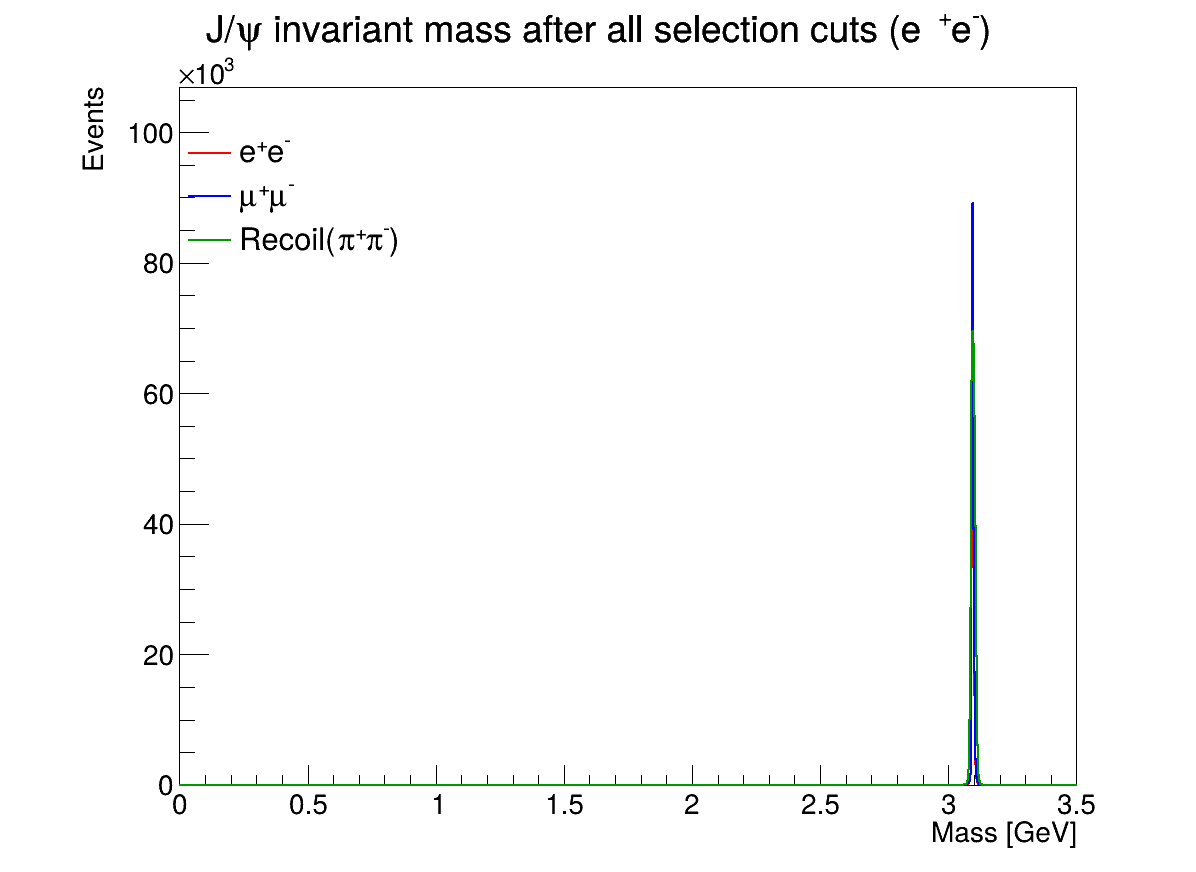
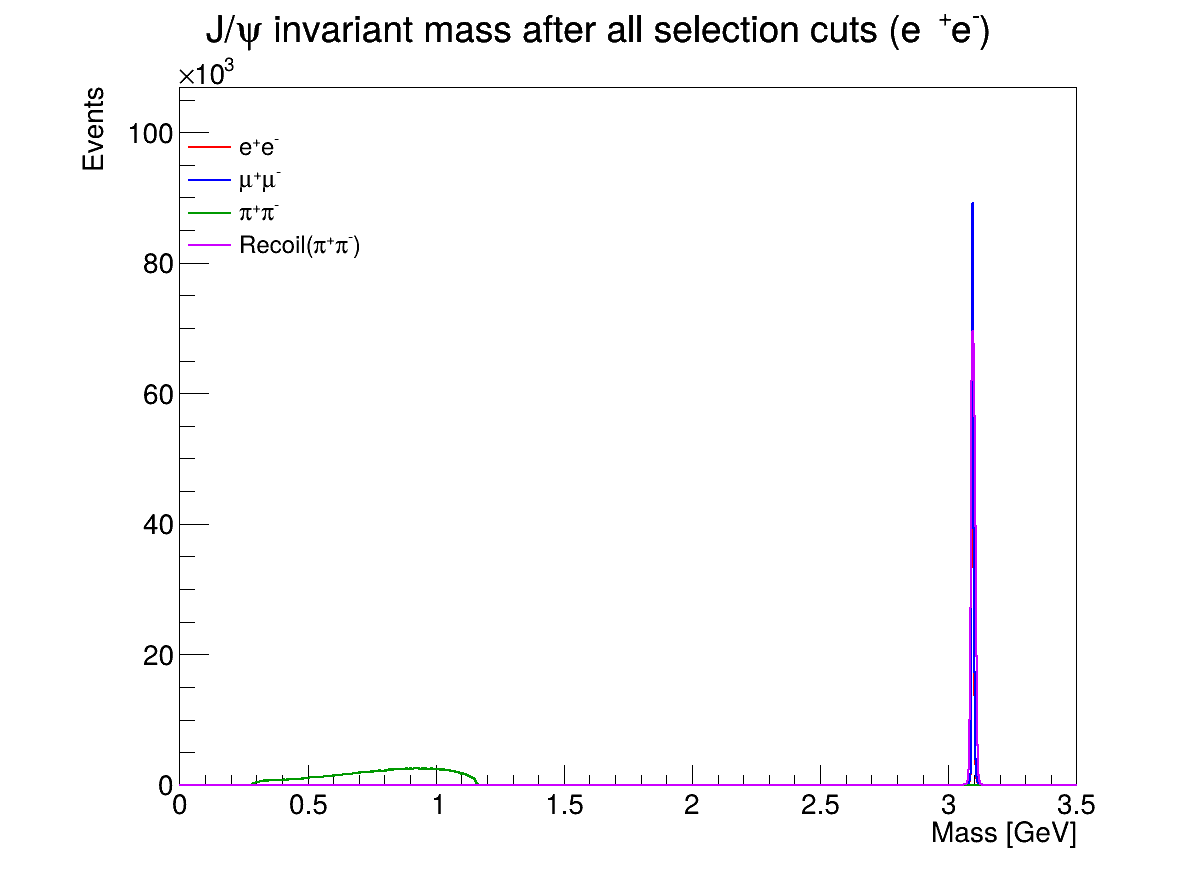
added pions to the "Jpsi_mass_after_all_cuts" graph

Changed region(s): [[0.1547, 0.1548, 0.3403, 0.3096], [0.8043, 0.4025, 0.8353, 0.8979]]

diff --git a/part2_KinFit/ZcAnalysis.C b/part2_KinFit/ZcAnalysis.C
@@ -267,6 +267,13 @@ TH1D* h_mJpsi_recoil_afterChi2 = new TH1D(
 "J/#psi invariant mass after all selection cuts (recoil);Mass [GeV];Events",
 1000,0.0,3.5
 );
+
+TH1D* h_m_pipi_afterChi2 = new TH1D(
+"h_m_pipi_afterChi2",
+"#pi^{+}#pi^{-} invariant mass after all selection cuts;Mass [GeV];Events",
+1000,0.0,3.5
+);
+
 // problem 6.3
 // --- J/psi pi mass ---
 TH1D* h_mJpsipi = new TH1D(
@@ -595,6 +602,9 @@ if(muonEvent)
 P4E recoil_chi2 = pCMS - pions;
 
 h_mJpsi_recoil_afterChi2->Fill(recoil_chi2.M());
+
+h_m_pipi_afterChi2->Fill(pions.M());
+
 selectedEvents++;   
 
 
@@ -1348,32 +1358,37 @@ canvas_chi2->SetLeftMargin(0.15);
 TH1D* h_e_plot = (TH1D*)h_mJpsi_e_afterChi2->Clone("h_e_plot");
 TH1D* h_mu_plot = (TH1D*)h_mJpsi_mu_afterChi2->Clone("h_mu_plot");
 TH1D* h_recoil_plot = (TH1D*)h_mJpsi_recoil_afterChi2->Clone("h_recoil_plot");
+TH1D* h_pipi_plot = (TH1D*)h_m_pipi_afterChi2->Clone("h_pipi_plot"); // Cloned pions
 
 
 // ===== STYLE (APPLY TO CLONES) =====
-h_e_plot->SetLineColor(kRed);
-h_mu_plot->SetLineColor(kBlue);
-h_recoil_plot->SetLineColor(kGreen+2);
+h_e_plot->SetLineColor(kRed);          // Electrons -> Red
+h_mu_plot->SetLineColor(kBlue);        // Muons -> Blue
+h_pipi_plot->SetLineColor(kGreen+2);   // Pions -> Green
+h_recoil_plot->SetLineColor(kViolet);  // Recoil -> Purple/Violet
 
 h_e_plot->SetLineWidth(2);
 h_mu_plot->SetLineWidth(2);
+h_pipi_plot->SetLineWidth(2);
 h_recoil_plot->SetLineWidth(2);
 
 // ===== AXIS =====
 h_e_plot->GetYaxis()->SetTitle("Events");
-//h_e_plot->GetXaxis()->SetRangeUser(2.9, 3.2);
 
 // ===== SET MAX USING CLONES =====
 double max_e = h_e_plot->GetMaximum();
 double max_mu = h_mu_plot->GetMaximum();
 double max_recoil = h_recoil_plot->GetMaximum();
+double max_pipi = h_pipi_plot->GetMaximum();
 
-double max_all = std::max({max_e, max_mu, max_recoil});
+// Evaluate maximum of all 4 quantities
+double max_all = std::max({max_e, max_mu, max_recoil, max_pipi});
 h_e_plot->SetMaximum(1.2 * max_all);
 
 // ===== DRAW =====
 h_e_plot->Draw("HIST");
 h_mu_plot->Draw("HIST SAME");
+h_pipi_plot->Draw("HIST SAME");
 h_recoil_plot->Draw("HIST SAME");
 
 // ===== LEGEND =====
@@ -1383,6 +1398,7 @@ leg_chi2->SetFillStyle(0);
 
 leg_chi2->AddEntry(h_e_plot,"e^{+}e^{-}","l");
 leg_chi2->AddEntry(h_mu_plot,"#mu^{+}#mu^{-}","l");
+leg_chi2->AddEntry(h_pipi_plot,"#pi^{+}#pi^{-}","l");
 leg_chi2->AddEntry(h_recoil_plot,"Recoil(#pi^{+}#pi^{-})","l");
 
 leg_chi2->Draw();
